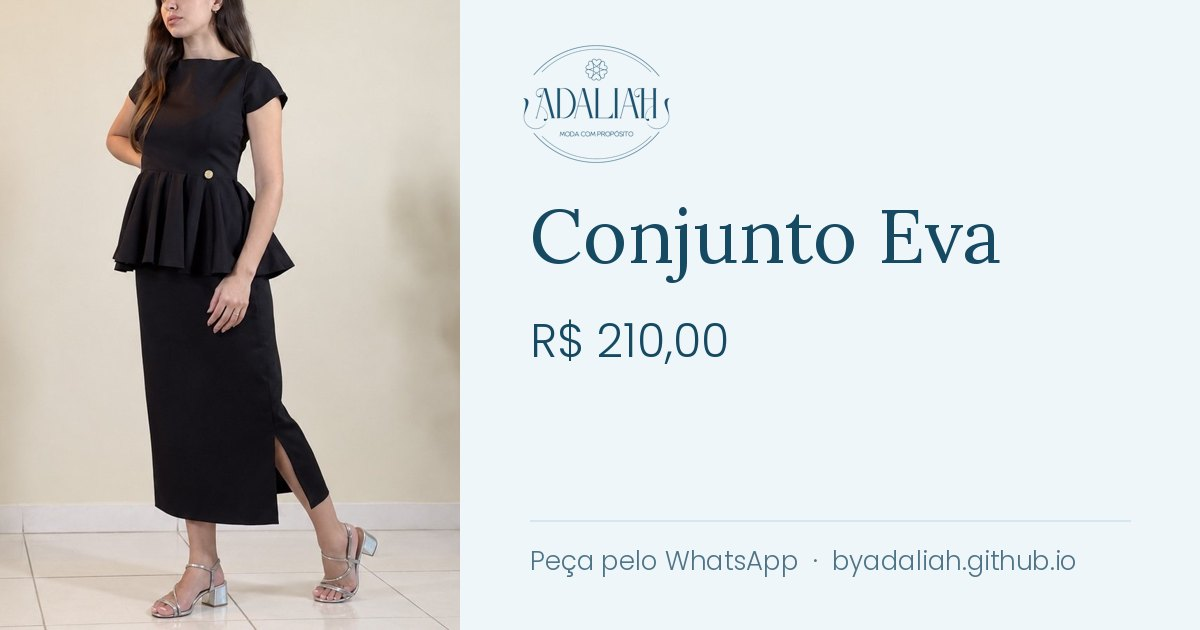
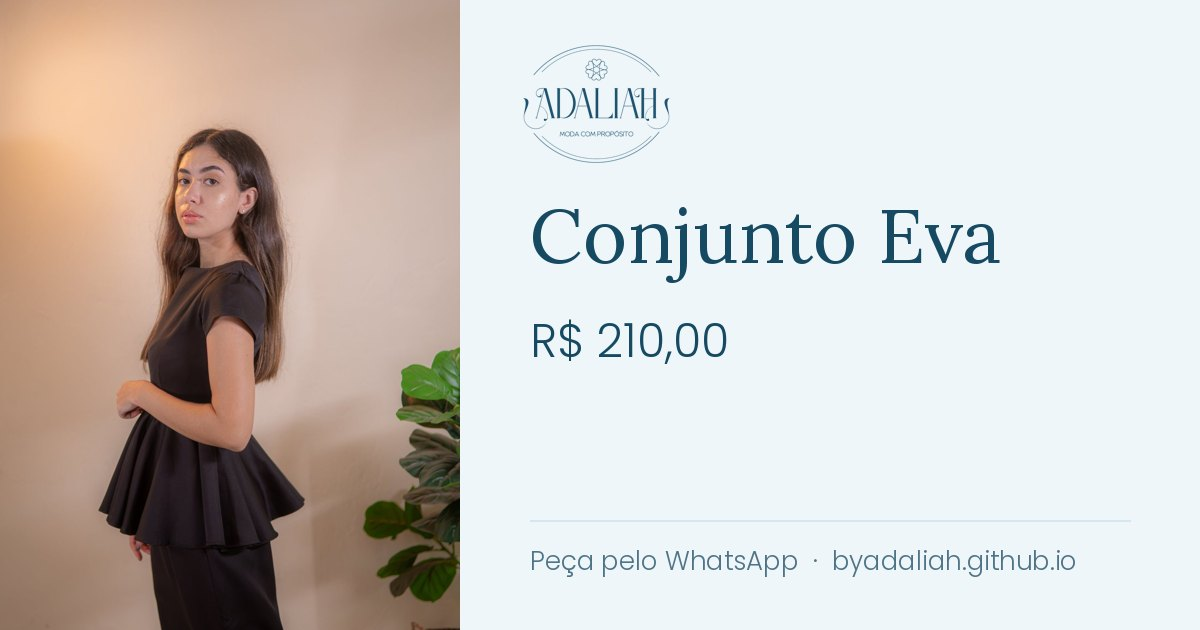
Conjunto Eva: foto com o rosto como capa
Claude-Session: https://claude.ai/code/session_01F19ppFsabnykYHd1ao5Jv1

diff --git a/index.html b/index.html
@@ -521,7 +521,7 @@
 <nav class="categorias" aria-label="Categorias">
   <a class="categoria" href="#lancamentos"><img src="fotos/raabe-bordo-1.jpg" alt="" loading="lazy"><span>Lançamentos</span></a>
   <a class="categoria" href="#pecas" data-filtro="vestido"><img src="fotos/atalia-vermelho-1.jpg" alt="" loading="lazy"><span>Vestidos</span></a>
-  <a class="categoria" href="#pecas" data-filtro="conjunto"><img src="fotos/eva-1.jpg" alt="" loading="lazy"><span>Conjuntos</span></a>
+  <a class="categoria" href="#pecas" data-filtro="conjunto"><img src="fotos/eva-2.jpg" alt="" loading="lazy"><span>Conjuntos</span></a>
 </nav>
 
 <div class="pagina">
@@ -662,7 +662,7 @@ const PRODUTOS = [
   { nome: "Conjunto Eva", slug: "eva", tipo: "conjunto", secao: "disponivel", preco: "R$ 210,00",
     descricao: "Clássico e sofisticado, para usar em muitas ocasiões. A blusa peplum de manga curta marca a cintura com leveza, e a saia midi reta, com pequena fenda lateral, alonga a silhueta.",
     detalhes: ["Cor preta", "Tecido New Look", "Blusa peplum"],
-    fotos: ["fotos/eva-1.jpg", "fotos/eva-2.jpg", "fotos/eva-3.jpg"], tamanhos: ["P", "G"] },
+    fotos: ["fotos/eva-2.jpg", "fotos/eva-1.jpg", "fotos/eva-3.jpg"], tamanhos: ["P", "G"] },
   { nome: "Vestido Ariela", slug: "ariela", secao: "disponivel", preco: "R$ 190,00",
     descricao: "Leve e fluido, perfeito para os dias quentes. As mangas amplas esvoaçam a cada movimento, a faixa franzida marca a cintura e a saia midi termina em um babado delicado.",
     detalhes: ["Tecido musseline", "Zíper invisível"],
